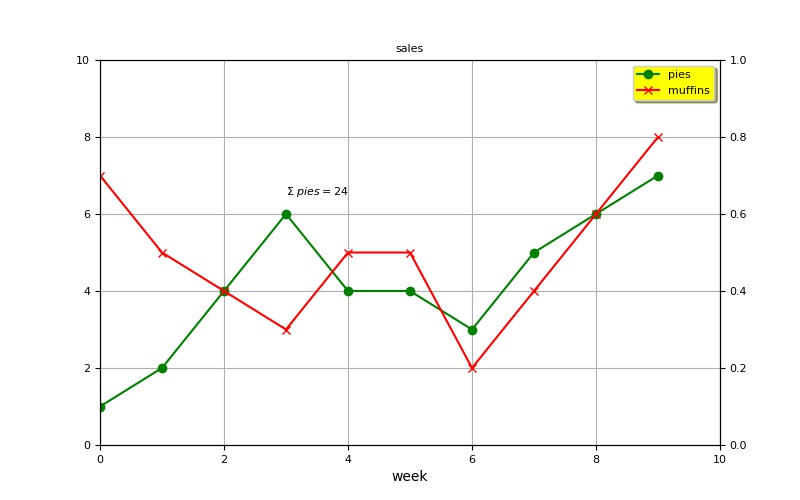
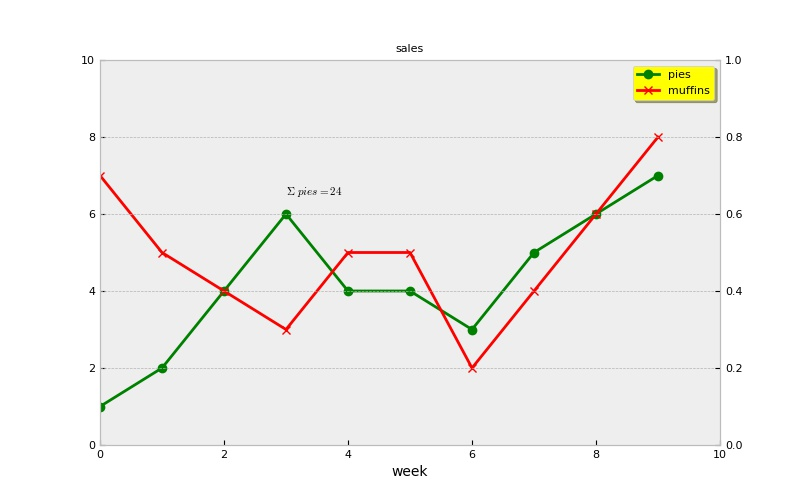
1.37

diff --git a/matplotlib/01_plt_basics_test.py b/matplotlib/01_plt_basics_test.py
@@ -5,6 +5,10 @@ import matplotlib.pyplot as plt
 # Use this command if using Jupyter notebook to plot graphs inline.
 # %matplotlib inline
 
+# Changes the graph style. A style reference can be found here:
+# https://matplotlib.org/3.1.0/gallery/style_sheets/style_sheets_reference.html
+plt.style.use('bmh')
+
 np.random.seed(123)
 x = np.arange(10)
 y = [1, 2, 4, 6, 4, 4, 3, 5, 6, 7]
